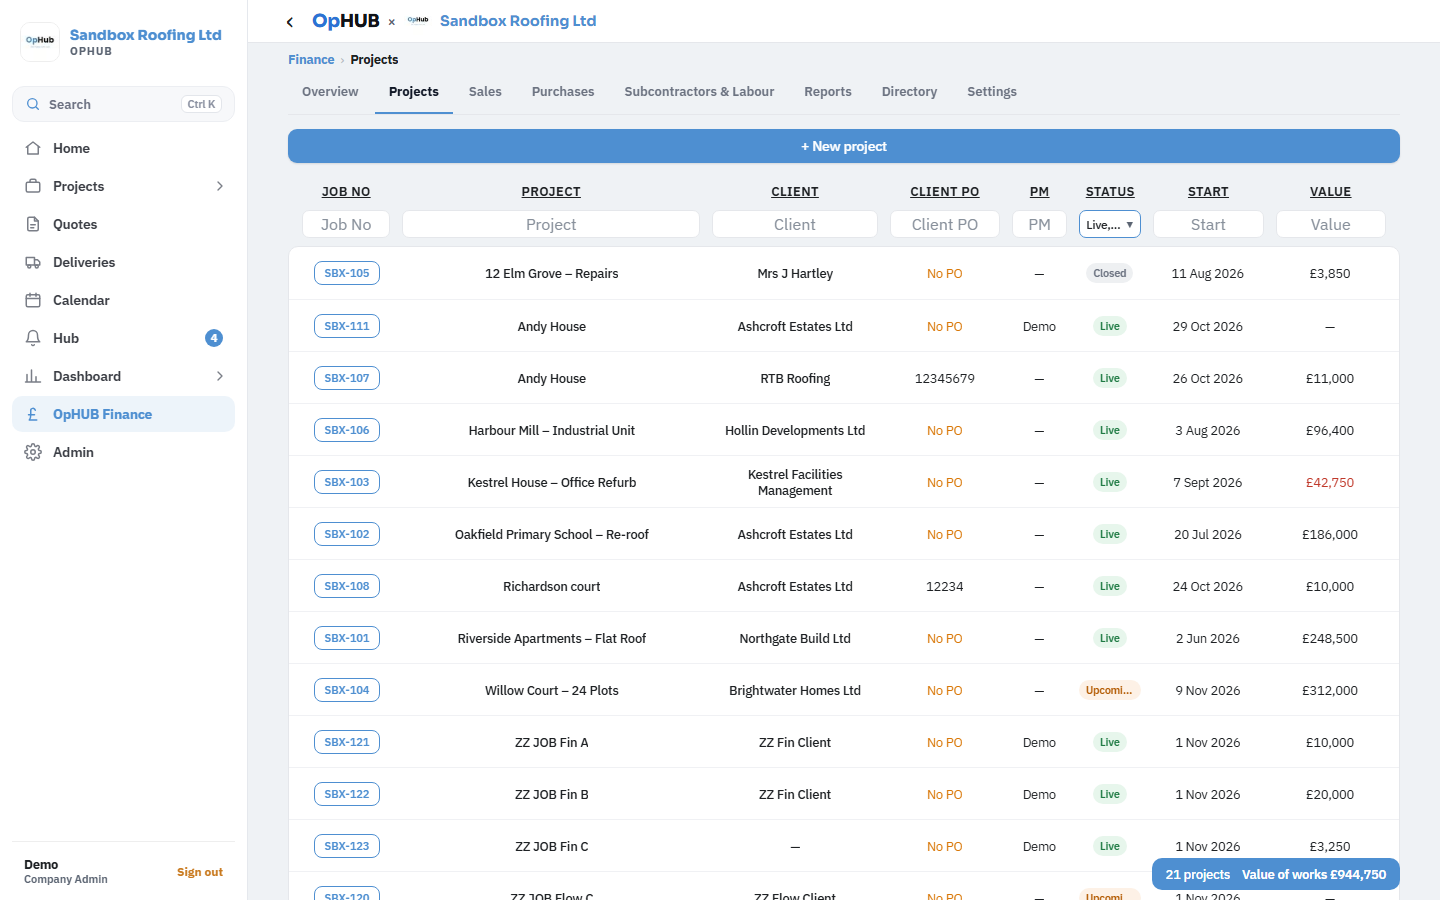
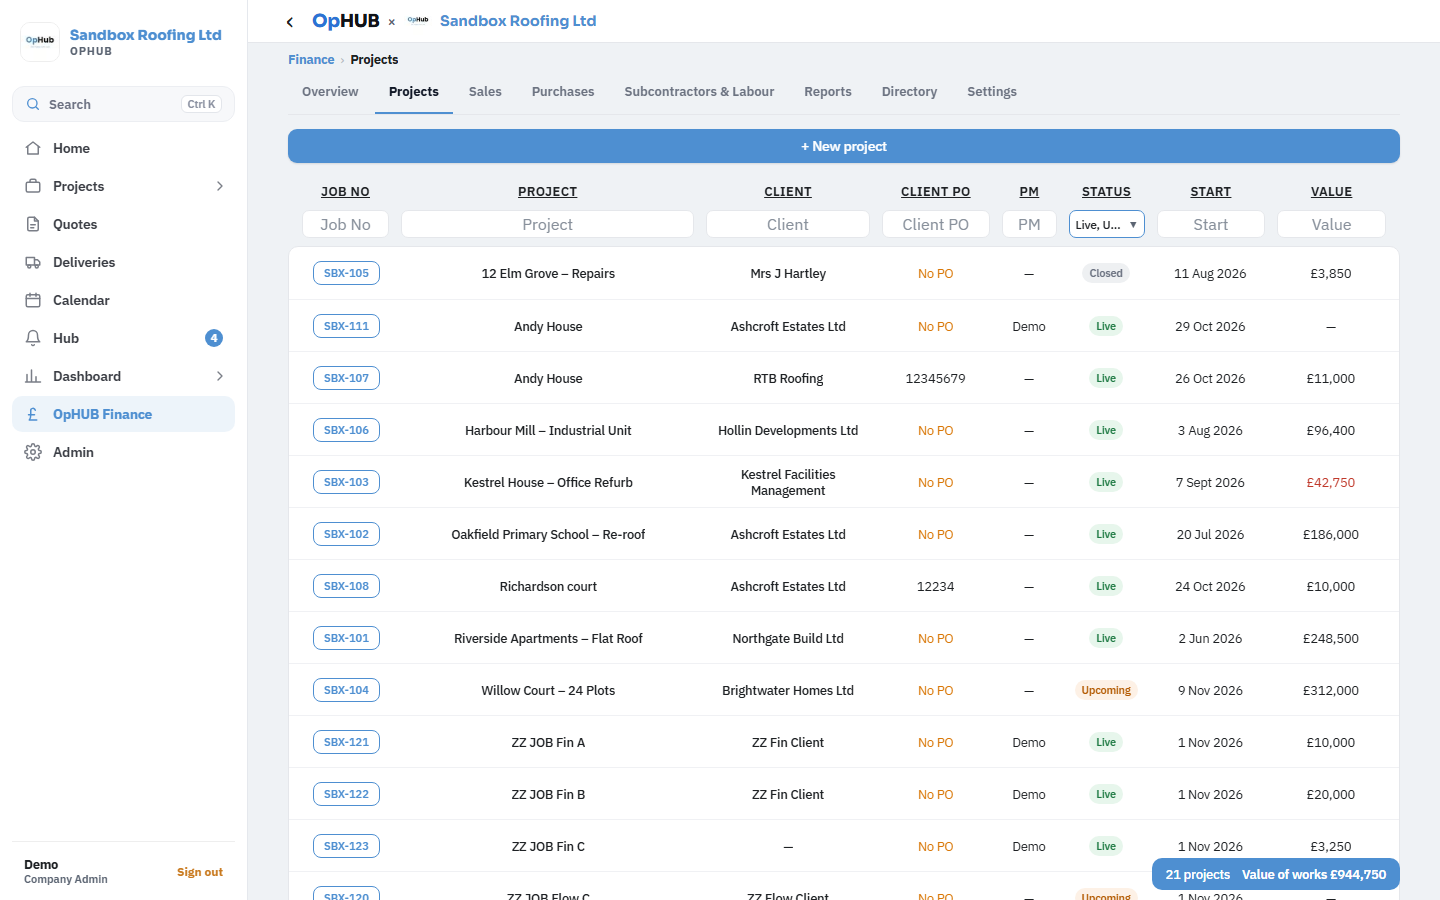
Projects: Status column wide enough for Upcoming.
Claude-Session: https://claude.ai/code/session_012KhfNvBEbifMJmPdX7yZfp

diff --git a/app-native/src/app/(app)/fin/jobs.tsx b/app-native/src/app/(app)/fin/jobs.tsx
@@ -99,7 +99,7 @@ export default function FinJobs() {
             { k: 'cli', l: 'Client', flex: 1.5, min: 150, render: (s) => <Cell bold>{cliOf(s) || '—'}</Cell> },
             { k: 'po', l: 'Client PO', render: (s) => { const po = (data.posBy[s.id] || []).join(', '); return po ? <Cell>{po}</Cell> : <Cell tone="#D97706">No PO</Cell>; } },
             { k: 'pm', l: 'PM', flex: 0.5, min: 56, render: (s) => <Cell>{pmName(s.responsible_pm_id) || '—'}</Cell> },
-            { k: 'st', l: 'Status', flex: 0.55, min: 74, noSort: true, choices: ['Live', 'Upcoming', 'Closed'], render: (s) => { const k = finStatus(s); const c = k === 'live' ? ['#E7F6EC', '#1E7A43'] : k === 'upcoming' ? ['#FDF1E6', '#B35A00'] : ['#EEF0F2', '#6b7280']; return <Text numberOfLines={1} style={{ fontSize: 10.5, fontWeight: '600', color: c[1], backgroundColor: c[0], borderRadius: 999, paddingVertical: 3, paddingHorizontal: 7, overflow: 'hidden' }}>{k[0].toUpperCase() + k.slice(1)}</Text>; } },
+            { k: 'st', l: 'Status', flex: 0.6, min: 88, noSort: true, choices: ['Live', 'Upcoming', 'Closed'], render: (s) => { const k = finStatus(s); const c = k === 'live' ? ['#E7F6EC', '#1E7A43'] : k === 'upcoming' ? ['#FDF1E6', '#B35A00'] : ['#EEF0F2', '#6b7280']; return <Text numberOfLines={1} style={{ fontSize: 10.5, fontWeight: '600', color: c[1], backgroundColor: c[0], borderRadius: 999, paddingVertical: 3, paddingHorizontal: 7, overflow: 'hidden' }}>{k[0].toUpperCase() + k.slice(1)}</Text>; } },
             { k: 'start', l: 'Start', sort: (s) => String(s.start_date || (s as { created_at?: string }).created_at || '').slice(0, 10), render: (s) => { const d = s.start_date || (s as { created_at?: string }).created_at; return <Cell>{d ? new Date(String(d).slice(0, 10) + 'T00:00:00').toLocaleDateString('en-GB', { day: 'numeric', month: 'short', year: 'numeric' }) : '—'}</Cell>; } },
             { k: 'v', l: 'Value', sort: (s) => Number(data.jfBy[s.id]?.contract_value || 0) || null, render: (s) => { const v = Number(data.jfBy[s.id]?.contract_value || 0), m = data.m[s.id]; return <Cell tone={m?.overdue ? '#C0392B' : undefined}>{v ? money(v, 0) : '—'}</Cell>; } },
           ]}
